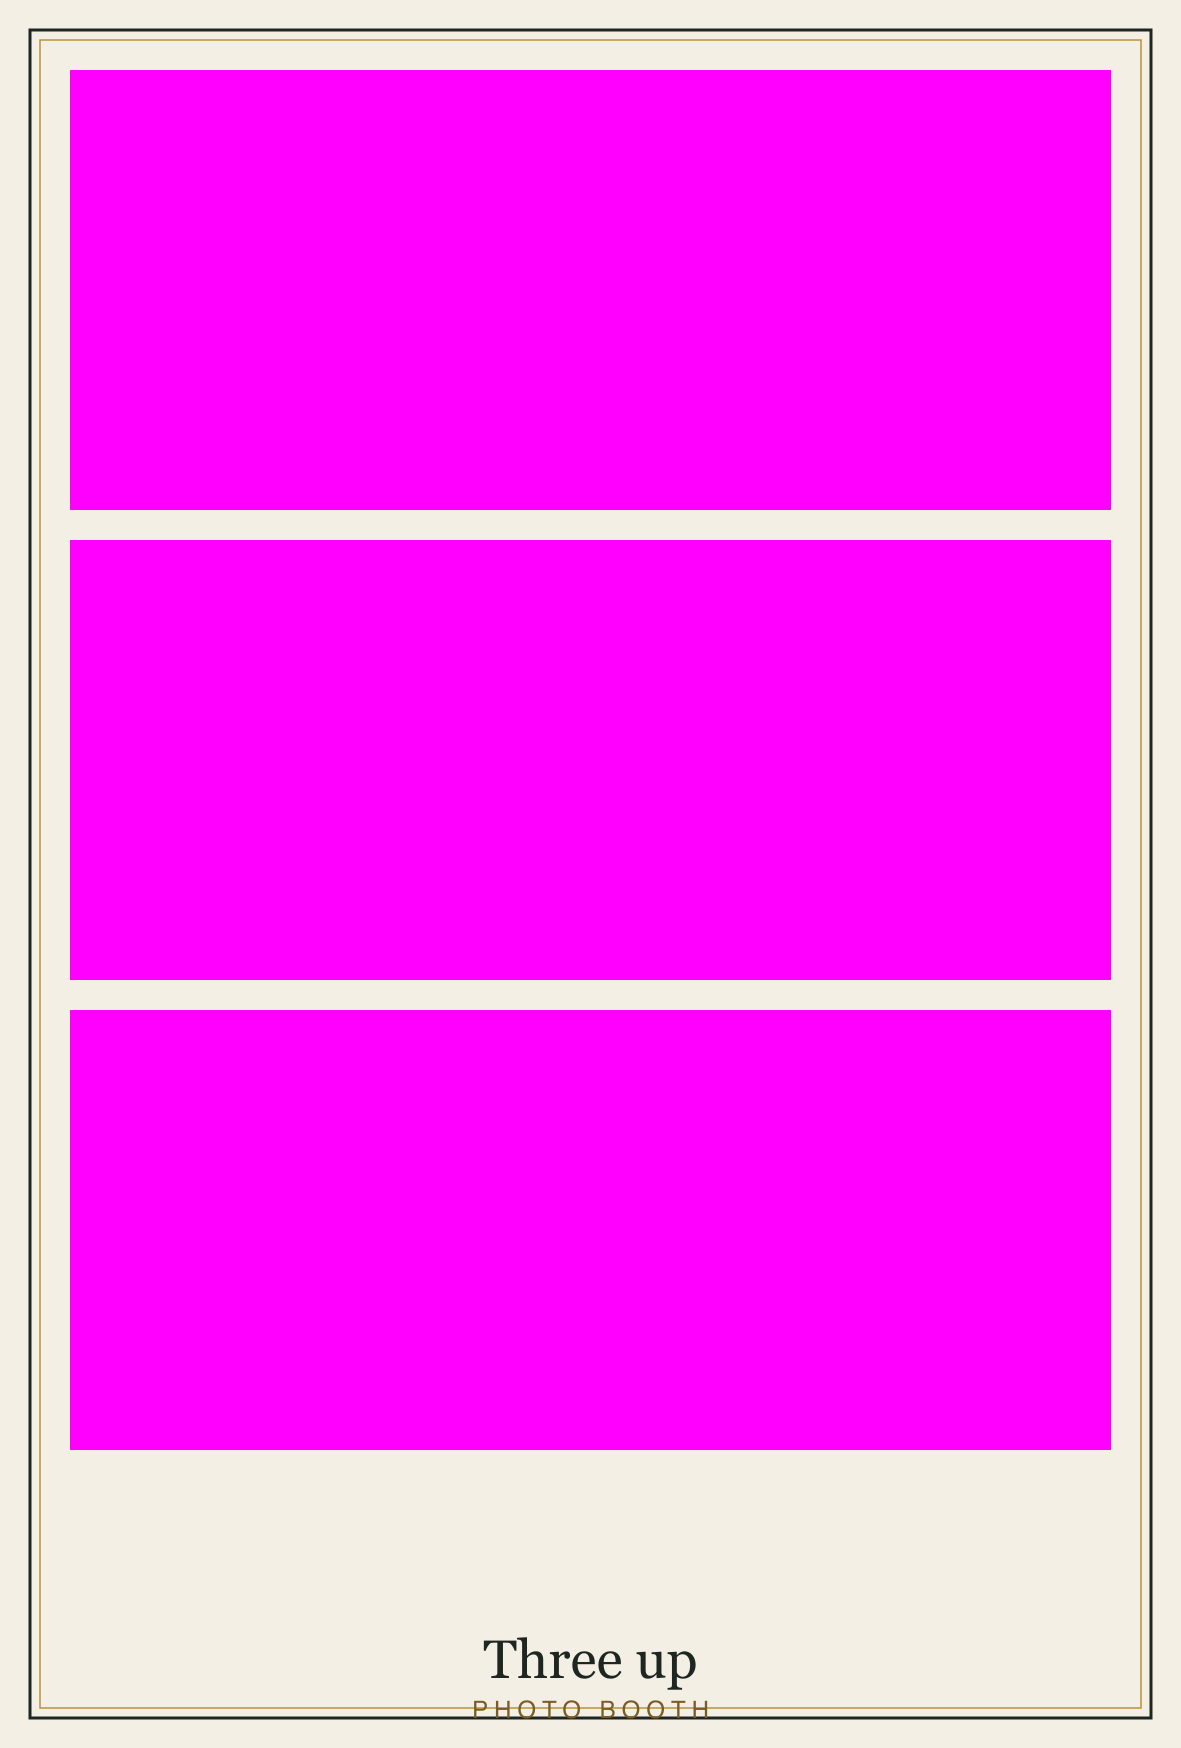
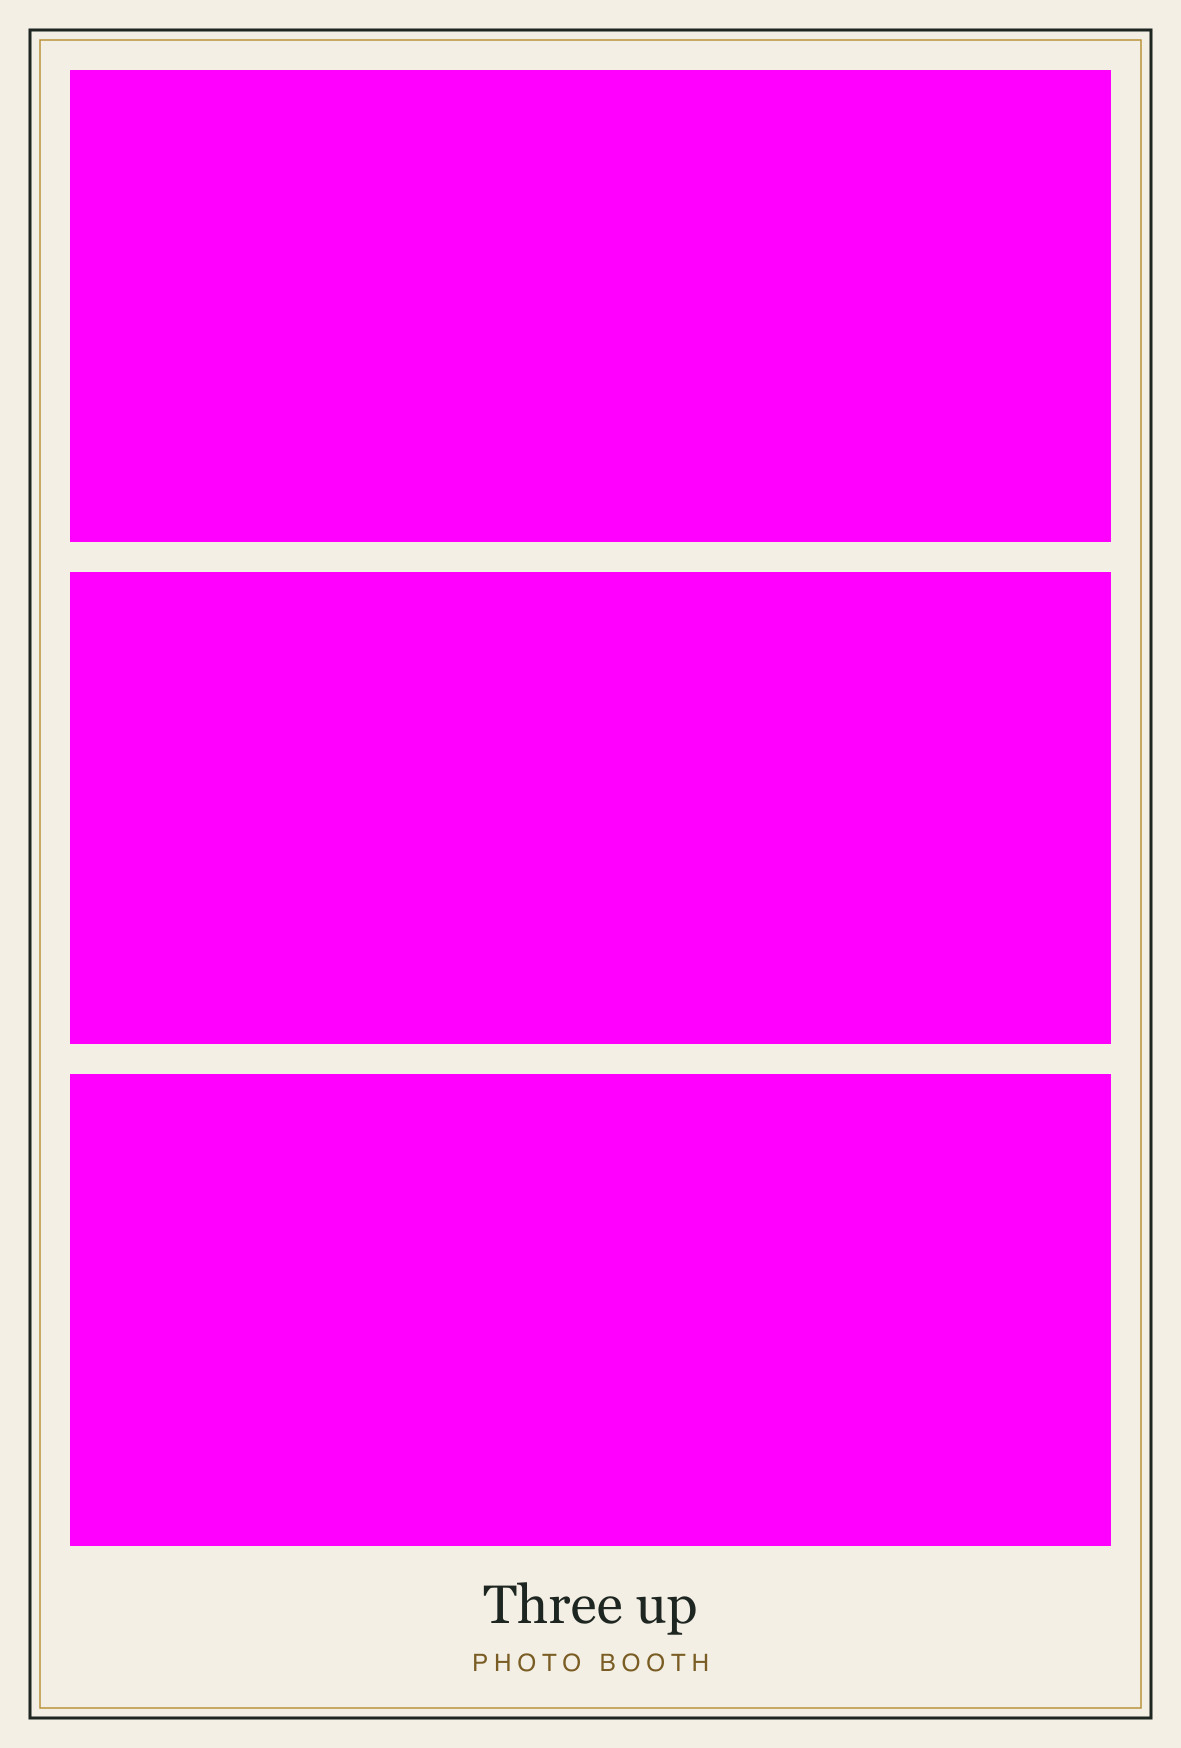
Keep the placeholder layouts' captions inside the frame
The generator put every caption at a fixed height from the bottom, so
on Two by two, Big shot and Three up the "PHOTO BOOTH" line sat on the
inner frame line and read as clipped on the review screen and the
print. Each layout now leaves a caption band under its photos, and the
caption is centred in it by measuring the rendered text, so it holds
whatever fonts the machine substitutes. The script refuses to write a
layout whose caption comes within 28 px of a slot or the frame.

The seed loads a file name once, so an existing database keeps the old
artwork: the README gives the admin steps (delete, re-upload, which
retires a used layout so its sessions still draw as taken).

Changed region(s): [[0.061, 0.8032, 0.945, 0.9886], [0.061, 0.5561, 0.945, 0.6178], [0.061, 0.278, 0.945, 0.3398]]

diff --git a/scripts/make-sample-assets.ts b/scripts/make-sample-assets.ts
@@ -25,15 +25,77 @@ function slotRects(rects: Rect[]): string {
   return rects.map((r) => `<rect x="${r.x}" y="${r.y}" width="${r.w}" height="${r.h}" fill="${MAGENTA}"/>`).join("");
 }
 
-function frame(width: number, height: number, inner: string, caption: string, sub: string): string {
-  const captionY = height - 70;
+// The gold inner frame line sits this far in from the edge; nothing drawn crosses it.
+const INNER = 40;
+// The space under the photos for the caption: from the lowest slot to the
+// inner frame line, or on the frameless strip to as far from the bottom
+// edge as the photos start from the top.
+const CAPTION_BAND = 160;
+// The least room the caption keeps from the photos above it, the line
+// below it and the sides of its band.
+const CAPTION_CLEARANCE = 28;
+
+type Band = { top: number; bottom: number; left: number; right: number };
+
+type CaptionStyle = { size: number; subSize: number; subGap: number; tracking: number };
+const CAPTION: CaptionStyle = { size: 54, subSize: 24, subGap: 48, tracking: 6 };
+const STRIP_CAPTION: CaptionStyle = { size: 40, subSize: 18, subGap: 40, tracking: 5 };
+
+function captionText(cx: number, baseline: number, caption: string, sub: string, style: CaptionStyle): string {
+  return `<text x="${cx}" y="${baseline}" text-anchor="middle" font-family="Georgia, 'Times New Roman', serif" font-size="${style.size}" fill="#1d2621">${caption}</text>
+    <text x="${cx}" y="${baseline + style.subGap}" text-anchor="middle" font-family="Helvetica, Arial, sans-serif" font-size="${style.subSize}" letter-spacing="${style.tracking}" fill="#7a5d24">${sub}</text>`;
+}
+
+/** The rows and columns the drawn text actually covers, whatever fonts this machine substituted. */
+async function inkBounds(width: number, height: number, fragment: string): Promise<Band> {
+  const svg = `<svg xmlns="http://www.w3.org/2000/svg" width="${width}" height="${height}" viewBox="0 0 ${width} ${height}">${fragment}</svg>`;
+  const { data, info } = await sharp(Buffer.from(svg)).ensureAlpha().raw().toBuffer({ resolveWithObject: true });
+  const ink: Band = { top: info.height, bottom: -1, left: info.width, right: -1 };
+  for (let y = 0; y < info.height; y++) {
+    for (let x = 0; x < info.width; x++) {
+      if (data[(y * info.width + x) * info.channels + 3] === 0) continue;
+      ink.top = Math.min(ink.top, y);
+      ink.bottom = Math.max(ink.bottom, y + 1);
+      ink.left = Math.min(ink.left, x);
+      ink.right = Math.max(ink.right, x + 1);
+    }
+  }
+  if (ink.bottom < 0) throw new Error("The caption drew nothing: no font for it on this machine?");
+  return ink;
+}
+
+/**
+ * Sets the caption and its small line centred in the band, measured from
+ * the rendered text rather than guessed from font sizes, and refuses to
+ * write a layout where it would touch the photos or the frame.
+ */
+async function caption(width: number, height: number, band: Band, title: string, sub: string, style: CaptionStyle): Promise<string> {
+  const cx = (band.left + band.right) / 2;
+  const trial = Math.round((band.top + band.bottom) / 2);
+  const ink = await inkBounds(width, height, captionText(cx, trial, title, sub, style));
+  const baseline = trial + Math.round((band.top + band.bottom - ink.top - ink.bottom) / 2);
+  const fragment = captionText(cx, baseline, title, sub, style);
+  const placed = await inkBounds(width, height, fragment);
+  const room = Math.min(placed.top - band.top, band.bottom - placed.bottom, placed.left - band.left, band.right - placed.right);
+  if (room < CAPTION_CLEARANCE) {
+    throw new Error(`"${title}" caption keeps ${room} px from its band, under the ${CAPTION_CLEARANCE} px it needs`);
+  }
+  return fragment;
+}
+
+/** The bottom edge of the lowest slot, where the caption band starts. */
+function slotsBottom(rects: Rect[]): number {
+  return Math.max(...rects.map((r) => r.y + r.h));
+}
+
+async function frame(width: number, height: number, rects: Rect[], title: string, sub: string): Promise<string> {
+  const band = { top: slotsBottom(rects), bottom: height - INNER, left: INNER, right: width - INNER };
   return `<svg xmlns="http://www.w3.org/2000/svg" width="${width}" height="${height}" viewBox="0 0 ${width} ${height}">
     <rect width="${width}" height="${height}" fill="#f4efe4"/>
     <rect x="30" y="30" width="${width - 60}" height="${height - 60}" fill="none" stroke="#1d2621" stroke-width="3"/>
-    <rect x="40" y="40" width="${width - 80}" height="${height - 80}" fill="none" stroke="#b8923a" stroke-width="1.5"/>
-    ${inner}
-    <text x="${width / 2}" y="${captionY}" text-anchor="middle" font-family="Georgia, 'Times New Roman', serif" font-size="54" fill="#1d2621">${caption}</text>
-    <text x="${width / 2}" y="${captionY + 40}" text-anchor="middle" font-family="Helvetica, Arial, sans-serif" font-size="24" letter-spacing="6" fill="#7a5d24">${sub}</text>
+    <rect x="${INNER}" y="${INNER}" width="${width - 2 * INNER}" height="${height - 2 * INNER}" fill="none" stroke="#b8923a" stroke-width="1.5"/>
+    ${slotRects(rects)}
+    ${await caption(width, height, band, title, sub, CAPTION)}
   </svg>`;
 }
 
@@ -45,26 +107,30 @@ async function png(svg: string, file: string) {
 async function templates() {
   await mkdir(TEMPLATES, { recursive: true });
 
-  // 1. Two by two: the default. 720 x 480 slots, a caption band below.
+  // 1. Two by two: the default. Four 3:2 slots, as tall as the caption band allows.
   {
-    const sw = 720, sh = 480, gap = 30, top = 70;
+    const gap = 30, top = 70;
+    const sh = Math.floor((H - INNER - CAPTION_BAND - top - gap) / 2);
+    const sw = sh * 1.5;
     const left = (W - 2 * sw - gap) / 2;
     const rects = [0, 1].flatMap((r) => [0, 1].map((c) => ({ x: left + c * (sw + gap), y: top + r * (sh + gap), w: sw, h: sh })));
-    await png(frame(W, H, slotRects(rects), "Two by two", "PHOTO BOOTH"), path.join(TEMPLATES, "01-two-by-two.png"));
+    await png(await frame(W, H, rects, "Two by two", "PHOTO BOOTH"), path.join(TEMPLATES, "01-two-by-two.png"));
   }
 
   // 2. Big shot: one slot, for the large groups.
   {
-    const rects = [{ x: 70, y: 70, w: W - 140, h: 920 }];
-    await png(frame(W, H, slotRects(rects), "Big shot", "PHOTO BOOTH"), path.join(TEMPLATES, "02-big-shot.png"));
+    const top = 70;
+    const rects = [{ x: 70, y: top, w: W - 140, h: H - INNER - CAPTION_BAND - top }];
+    await png(await frame(W, H, rects, "Big shot", "PHOTO BOOTH"), path.join(TEMPLATES, "02-big-shot.png"));
   }
 
   // 3. Three up: portrait, three wide slots stacked.
   {
     const pw = H, ph = W;
-    const sw = pw - 140, sh = 440, gap = 30, top = 70;
+    const gap = 30, top = 70;
+    const sw = pw - 140, sh = Math.floor((ph - INNER - CAPTION_BAND - top - 2 * gap) / 3);
     const rects = [0, 1, 2].map((r) => ({ x: 70, y: top + r * (sh + gap), w: sw, h: sh }));
-    await png(frame(pw, ph, slotRects(rects), "Three up", "PHOTO BOOTH"), path.join(TEMPLATES, "03-three-up.png"));
+    await png(await frame(pw, ph, rects, "Three up", "PHOTO BOOTH"), path.join(TEMPLATES, "03-three-up.png"));
   }
 
   // 4. Double strip: portrait, two identical 50 x 148 mm strips side by
@@ -73,15 +139,22 @@ async function templates() {
   {
     const pw = H, ph = W;
     const half = pw / 2;
-    const sw = 480, sh = 420, gap = 30, top = 70;
+    const sw = 480, gap = 30, top = 70;
+    // No frame to sit inside: each strip's caption band ends as far from
+    // the bottom edge as its first photo starts from the top.
+    const sh = Math.floor((ph - top - CAPTION_BAND - top - 2 * gap) / 3);
     const rects = [0, 1, 2].flatMap((r) => [0, 1].map((s) => ({ x: s * half + (half - sw) / 2, y: top + r * (sh + gap), w: sw, h: sh })));
     const cut = `<line x1="${half}" y1="30" x2="${half}" y2="${ph - 30}" stroke="#b8923a" stroke-width="1" stroke-dasharray="12 10"/>`;
+    const captions = await Promise.all(
+      [0, 1].map((s) =>
+        caption(pw, ph, { top: slotsBottom(rects), bottom: ph - top, left: s * half, right: (s + 1) * half }, "Double strip", "PHOTO BOOTH", STRIP_CAPTION),
+      ),
+    );
     const svg = `<svg xmlns="http://www.w3.org/2000/svg" width="${pw}" height="${ph}" viewBox="0 0 ${pw} ${ph}">
       <rect width="${pw}" height="${ph}" fill="#f4efe4"/>
       ${slotRects(rects)}
       ${cut}
-      ${[0, 1].map((s) => `<text x="${s * half + half / 2}" y="${ph - 150}" text-anchor="middle" font-family="Georgia, 'Times New Roman', serif" font-size="40" fill="#1d2621">Double strip</text>
-      <text x="${s * half + half / 2}" y="${ph - 110}" text-anchor="middle" font-family="Helvetica, Arial, sans-serif" font-size="18" letter-spacing="5" fill="#7a5d24">PHOTO BOOTH</text>`).join("")}
+      ${captions.join("")}
     </svg>`;
     await png(svg, path.join(TEMPLATES, "04-double-strip.png"));
     await writeFile(path.join(TEMPLATES, "04-double-strip.json"), JSON.stringify({ shots: [1, 1, 2, 2, 3, 3] }, null, 2) + "\n");

diff --git a/CLAUDE.md b/CLAUDE.md
@@ -193,6 +193,16 @@ print size, and the same overlay at screen size. The optional sidecar
 maps slots to shots (`{"shots":[1,1,2,2,3,3]}` is the double strip) and
 lists text fields for the compositor.
 
+The PNGs in `templates/` are placeholders from `scripts/make-sample-assets.ts`,
+which centres each caption in the band under the photos by measuring the
+rendered text, and refuses to write a layout whose caption would come
+within `CAPTION_CLEARANCE` of a slot or the frame. **A changed PNG reaches
+fresh databases only**: the seed never loads a file name twice, and
+replacing a layout in place would redraw the sessions taken with it. An
+existing database takes the new artwork as an admin upload after deleting
+the old layout, which retires it if sessions used it (the README has the
+steps).
+
 **Until phase 2 there is no compositor.** The browser lays the shots
 under the overlay itself (`Composite` in `apps/booth/src/components`)
 using the slot rectangles as percentages, which is what the picker, the

diff --git a/README.md b/README.md
@@ -35,6 +35,17 @@ two slots share a shot:
 { "shots": [1, 1, 2, 2, 3, 3] }
 ```
 
+The four layouts in `templates/` are placeholders, drawn by
+`pnpm assets` and loaded by the seed the first time it sees each file.
+The seed never loads a file twice, so when a placeholder changes, a
+database that already has it keeps the old artwork until you replace
+it on `/admin`: delete the layout, then upload the new PNG from
+`templates/` under the same name (with `04-double-strip.json` as the
+sidecar for the double strip). Uploads join the end of the list, so
+replace all four in file order to keep the picker's order. A layout
+that sessions were taken with is retired rather than removed, so those
+sessions still show the artwork they were taken with.
+
 ## Filters
 
 On the review screen a guest picks a filter for their photos: colour,
